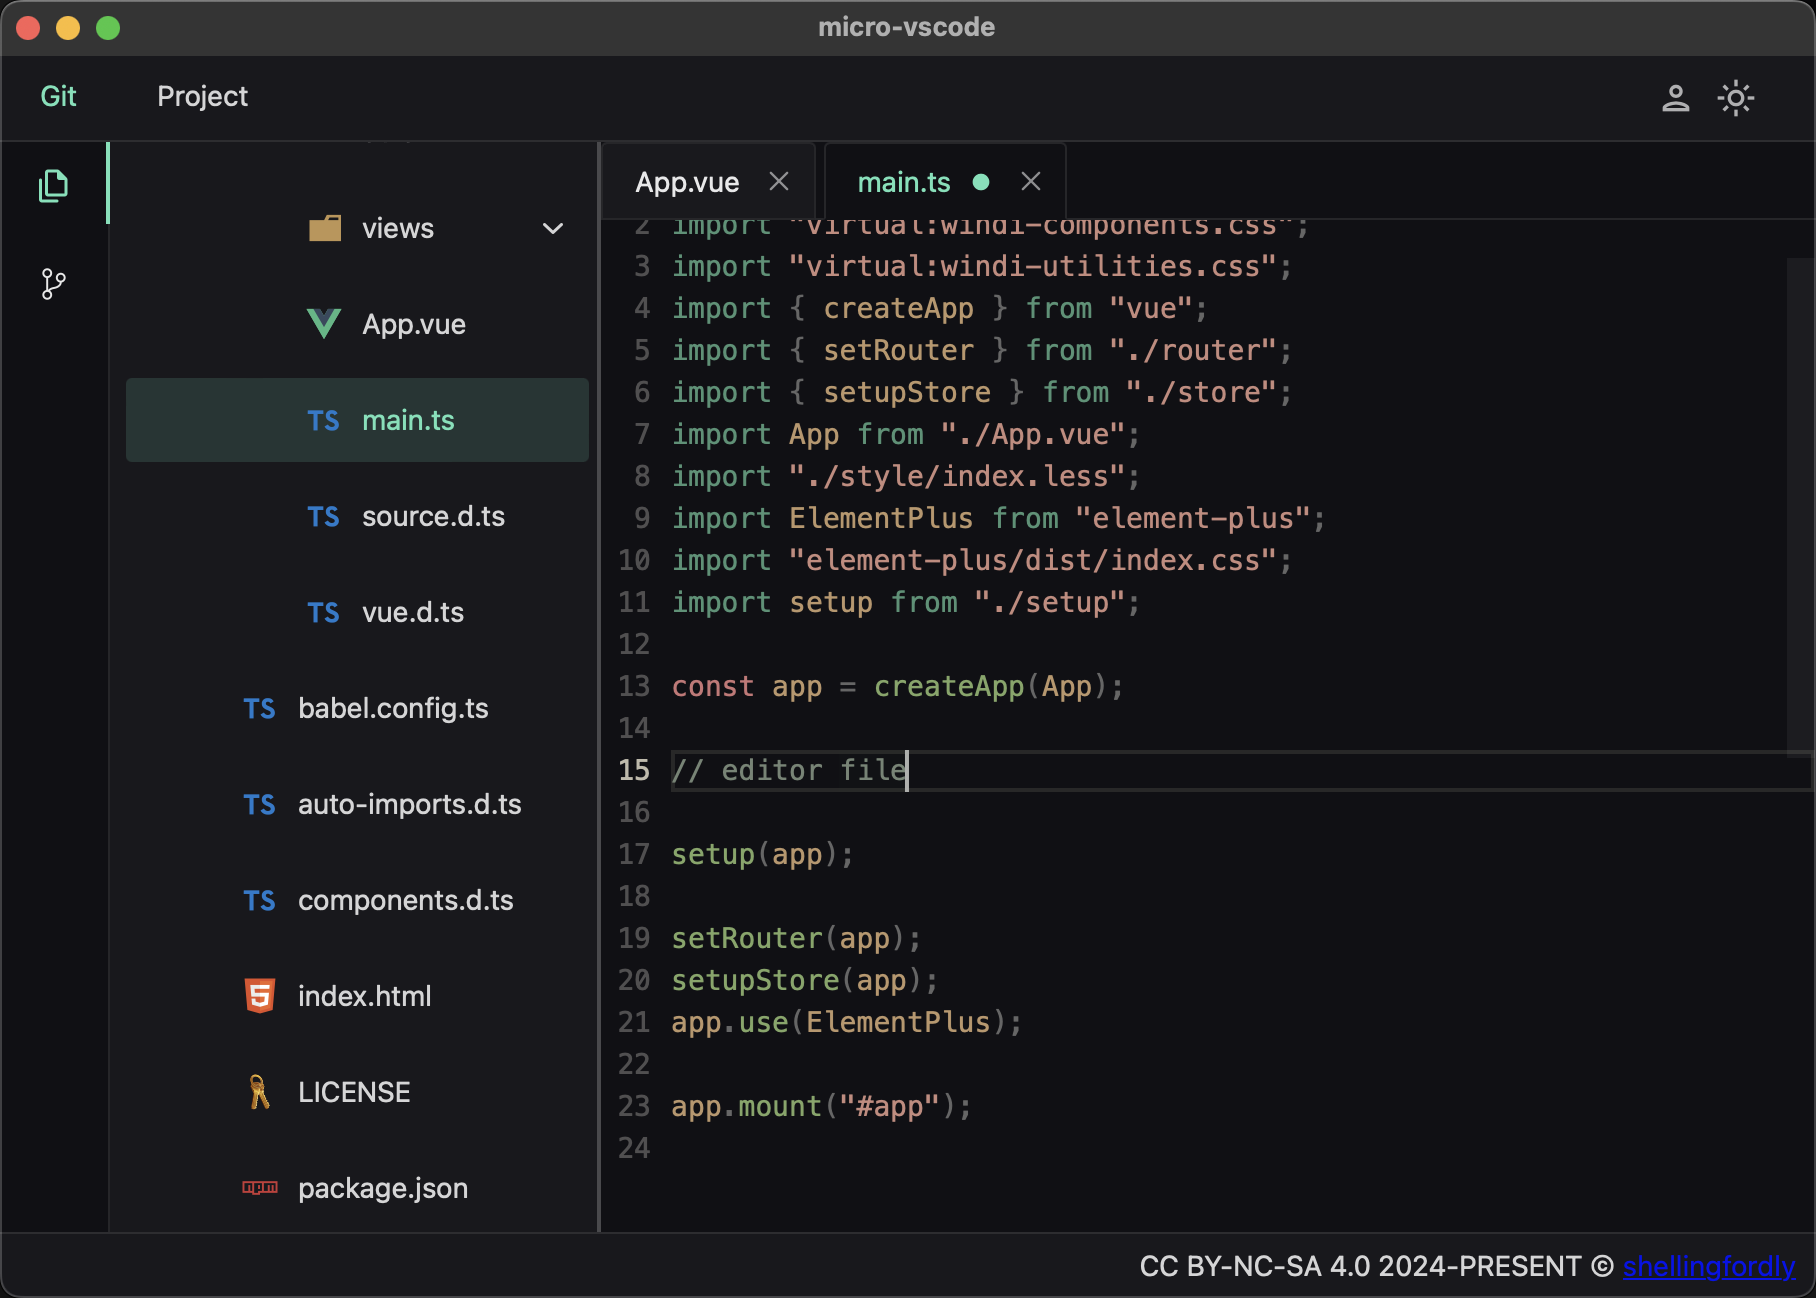
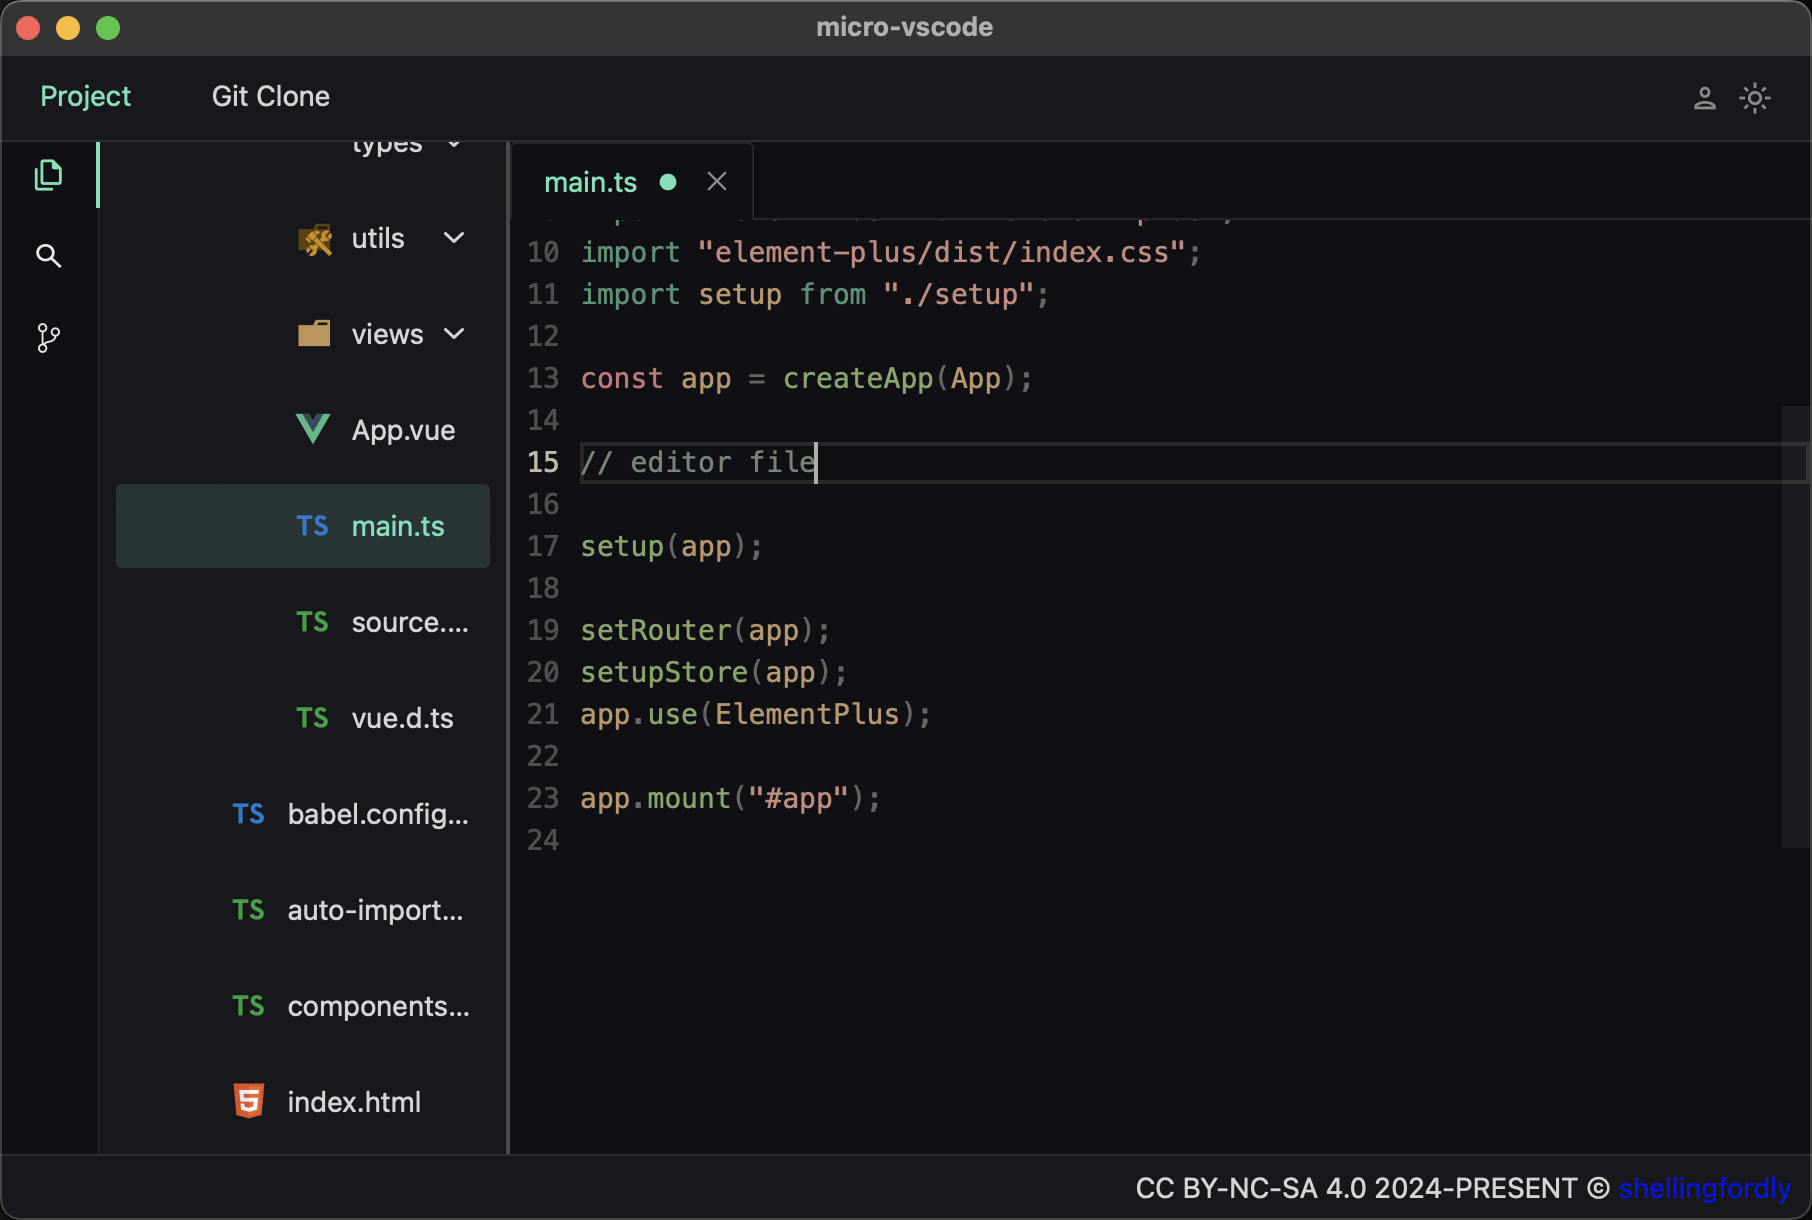
docs: update micro_vscode

diff --git a/pages/blog/other/micro_vscode.md b/pages/blog/other/micro_vscode.md
@@ -55,24 +55,6 @@ npm run tauri dev
 
 <img-item src="/images/blog/other/tauri/git_clone.png" />
 
-### git commit
-
-使用 `github token` 提交，需要在 user 中设置
-
-<img-item src="/images/blog/other/tauri/git_commit.png" />
-
-### git pull and push
-
-<img-item src="/images/blog/other/tauri/git.png" />
-
-### 设置 git config 的 username 和 email
-
-- 设置 username
-- 设置 email
-- 设置 gitHub token
-
-<img-item src="/images/blog/other/tauri/git_user.png" />
-
 ### 查看项目
 
 <img-item src="/images/blog/other/tauri/view_project.png" />
@@ -83,17 +65,49 @@ npm run tauri dev
 
 <img-item src="/images/blog/other/tauri/editor_file.png" />
 
+### git add and commit
+
+使用 `github token` 提交，需要在 user 中设置
+
+<img-item src="/images/blog/other/tauri/git_commit.png" />
+
+### git pull and push
+
+<img-item src="/images/blog/other/tauri/git_pull.png" />
+
+### discard changes
+
+- discard file changes
+
+<img-item src="/images/blog/other/tauri/discard_changes.png" />
+
+- discard all changes
+
+<img-item src="/images/blog/other/tauri/discard_all_changes.png" />
+
+### 获取提交日志
+
+<img-item src="/images/blog/other/tauri/git_log.png" />
+
+### 设置 git config 的 username 和 email
+
+- 设置 username
+- 设置 email
+- 设置 gitHub token
+
+<img-item src="/images/blog/other/tauri/git_user.png" />
+
 ## 服务端
 
 服务端使用 rust 写的，其实我几乎不懂 rust，这个项目的 rust 代码都是 chatgpt 帮我写的
 
 ## TodoList
 
-- 读取本地文件系统
-- 新建文件/问价
-- 更新 git 操作类似到工具栏，类似 vscode
-- 搜索文件内容
-- 通过文件名搜索文件
+- [ ] 读取本地文件系统
+- [ ] 新建文件/问价
+- [x] 更新 git 操作类似到工具栏，类似 vscode
+- [ ] 搜索文件内容
+- [ ] 通过文件名搜索文件
 
 ## 写在最后
 
